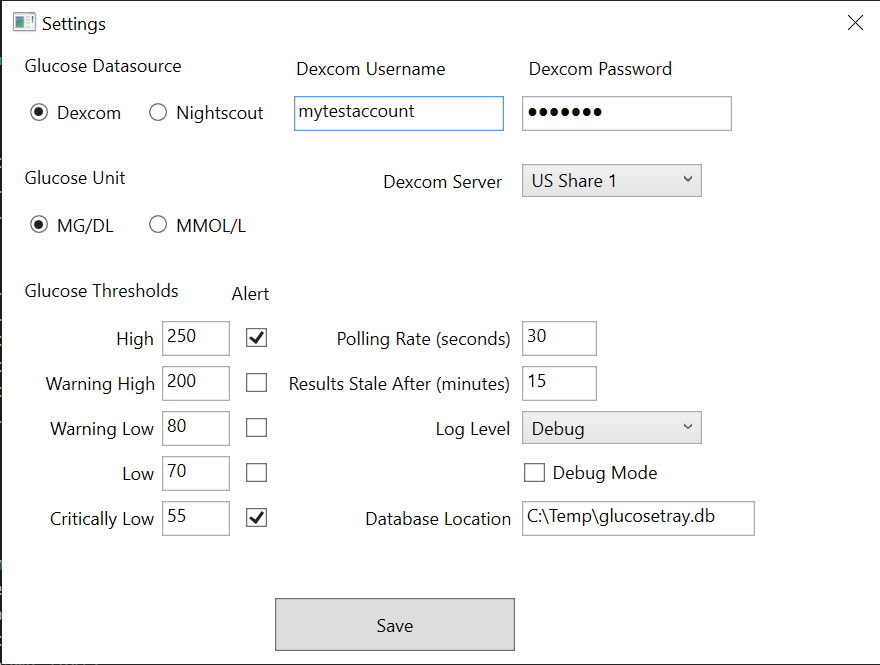
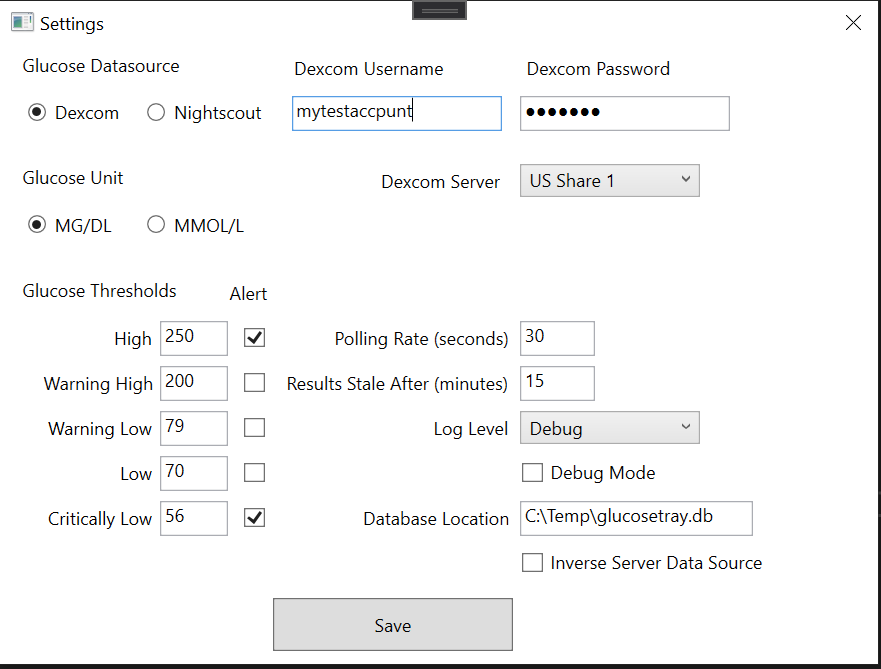
added a setting for toggling between different server source data types

diff --git a/GlucoseTrayCore/Views/SettingsWindow.xaml b/GlucoseTrayCore/Views/SettingsWindow.xaml
@@ -34,14 +34,19 @@
         <Label Content="Glucose Datasource" HorizontalAlignment="Left" Margin="10,0,0,0" VerticalAlignment="Top" Height="26" Width="131" Grid.ColumnSpan="2"/>
         <RadioButton TabIndex="1" x:Name="radio_source_dexcom" Content="Dexcom" HorizontalAlignment="Center" VerticalAlignment="Center" Grid.Row="1" GroupName="glucose_datasource" Height="15" Width="62" RenderTransformOrigin="0.5,0.5" IsChecked="True" Checked="ShowDexcomBlock"/>
         <RadioButton TabIndex="2" x:Name="radio_source_nightscout" Content="Nightscout" HorizontalAlignment="Left" VerticalAlignment="Center" Grid.Row="1" GroupName="glucose_datasource" Height="15" Width="78" Grid.Column="1" Checked="ShowNightscoutBlock" Grid.ColumnSpan="2"/>
-        <Label x:Name="label_dexcom_username" Content="Dexcom Username" Grid.Column="3" HorizontalAlignment="Left" VerticalAlignment="Center" Height="26" Width="124" Margin="4,0,0,0"/>
-        <Label x:Name="label_nightscoutUrl" Content="Nightscout Url" Grid.Column="2" HorizontalAlignment="Left" VerticalAlignment="Center" Height="26" Width="124" Visibility="Hidden" Grid.ColumnSpan="2" Margin="25,0,0,0"/>
-        <Label x:Name="label_dexcom_password" Content="Dexcom Password" Grid.Column="4" HorizontalAlignment="Left" VerticalAlignment="Center" Height="26" Width="130" Margin="4,0,0,0"/>
-        <Label x:Name="label_nightscout_token" Content="Access Token" Grid.Column="4" HorizontalAlignment="Left" VerticalAlignment="Center" Height="26" Width="130" Visibility="Hidden" Margin="4,0,0,0"/>
-        <TextBox TabIndex="3" x:Name="txt_dexcom_username" Grid.Column="3" Grid.Row="1" TextWrapping="Wrap" Width="140" Margin="0,4,0,3" HorizontalAlignment="Center" Text="{Binding DexcomUsername}"/>
-        <TextBox TabIndex="3" x:Name="txt_nightscoutUrl" Grid.Column="3" Grid.Row="1" TextWrapping="Wrap" Width="140" Margin="0,4,0,3" HorizontalAlignment="Center" Visibility="Hidden" Text="{Binding NightscoutUrl}"/>
-        <PasswordBox TabIndex="4" x:Name="txt_dexcom_password" Grid.Column="4" Grid.Row="1" Width="140" Margin="5,4,0,3" HorizontalAlignment="Left" />
-        <PasswordBox TabIndex="4" x:Name="txt_nightscout_token" Grid.Column="4" Grid.Row="1" Width="140" Margin="5,4,0,3" HorizontalAlignment="Left" Visibility="Hidden"/>
+
+        <Label x:Name="label_dexcom_username" Content="Dexcom Username" Grid.Column="3" HorizontalAlignment="Left" VerticalAlignment="Center" Height="26" Width="124" Margin="4,0,0,0" />
+        <Label x:Name="label_nightscoutUrl" Content="Nightscout Url" Grid.Column="3" HorizontalAlignment="Left" VerticalAlignment="Center" Height="26" Width="124" Visibility="Hidden" Margin="4,0,0,0"/>
+
+        <Label x:Name="label_dexcom_password" Content="Dexcom Password" Grid.Column="4" HorizontalAlignment="Left" VerticalAlignment="Center" Height="26" Width="130" Margin="4,0,0,0" />
+        <Label x:Name="label_nightscout_token" Content="Access Token" Grid.Column="4" HorizontalAlignment="Left" VerticalAlignment="Center" Height="26" Width="130" Visibility="Hidden" Margin="50,0,0,0" Grid.ColumnSpan="2"/>
+
+        <TextBox TabIndex="3" x:Name="txt_dexcom_username" Grid.Column="3" Grid.Row="1" TextWrapping="Wrap" Width="140" Margin="0,4,0,3" HorizontalAlignment="Center" Text="{Binding DexcomUsername}" />
+        <TextBox TabIndex="3" x:Name="txt_nightscoutUrl" Grid.Column="3" Grid.Row="1" TextWrapping="Wrap" Width="184" Margin="7,4,0,3" HorizontalAlignment="Left" Visibility="Hidden" Text="{Binding NightscoutUrl}" Grid.ColumnSpan="2"/>
+
+        <PasswordBox TabIndex="4" x:Name="txt_dexcom_password" Grid.Column="4" Grid.Row="1" Width="140" Margin="5,4,0,3" HorizontalAlignment="Left"  />
+        <PasswordBox TabIndex="4" x:Name="txt_nightscout_token" Grid.Column="4" Grid.Row="1" Width="190" Margin="50,4,5,3" HorizontalAlignment="Left" Visibility="Hidden" Grid.ColumnSpan="2"/>
+
         <Label Content="Glucose Unit" HorizontalAlignment="Left" Grid.Row="3" VerticalAlignment="Top" Height="26" Width="100" Margin="10,0,0,0" Grid.ColumnSpan="2"/>
         <Label x:Name="label_dexcom_server" Content="Dexcom Server" Grid.Column="3" HorizontalAlignment="Left" Grid.Row="3" VerticalAlignment="Center" Height="25" Width="95" Grid.ColumnSpan="2" Margin="62,0,0,0"/>
         <RadioButton TabIndex="6" x:Name="radio_unit_mg" Content="MG/DL" HorizontalAlignment="Center" Grid.Row="4" VerticalAlignment="Center" Height="15" Width="62" GroupName="glucose_unit" IsChecked="True" Checked="UpdateValuesFromMMoLToMG"/>
@@ -75,5 +80,6 @@
         <CheckBox TabIndex="17" x:Name="checkbox_alert_low" IsChecked="{Binding LowAlert}" Content="" Grid.Column="2" HorizontalAlignment="Center" Grid.Row="10" VerticalAlignment="Center"/>
         <ComboBox TabIndex="5" x:Name="combobox_dexcom_server" Grid.Column="4" HorizontalAlignment="Left" Grid.Row="3" VerticalAlignment="Center" Width="120" SelectedIndex="0" Margin="5,0,0,0" Height="22"/>
         <CheckBox TabIndex="16" x:Name="checkbox_alert_critical" IsChecked="{Binding CriticallyLowAlert}" Content="" Grid.Column="2" HorizontalAlignment="Center" Grid.Row="11" VerticalAlignment="Center"/>
+        <CheckBox x:Name="checkbox_server_datasource_inversed" Content="Inverse Server Data Source" Grid.Column="4" HorizontalAlignment="Left" Margin="5,0,0,0" Grid.Row="12" VerticalAlignment="Center" Grid.ColumnSpan="2" IsChecked="{Binding IsServerDataUnitTypeMmol}"/>
     </Grid>
 </Window>

diff --git a/GlucoseTrayCore/Services/GlucoseFetchService.cs b/GlucoseTrayCore/Services/GlucoseFetchService.cs
@@ -65,28 +65,22 @@ namespace GlucoseTrayCore.Services
             (_options.CurrentValue.GlucoseUnit == GlucoseUnitType.MMOL && result.MmolValue <= _options.CurrentValue.CriticalLowBg)
             || (_options.CurrentValue.GlucoseUnit == GlucoseUnitType.MG && result.MgValue <= _options.CurrentValue.CriticalLowBg);
 
-        private void CalculateValues(GlucoseResult result, double value, GlucoseUnitType? unitType = null)
+        private void CalculateValues(GlucoseResult result, double value)
         {
-            // TODO: Would be nice to find a definitive way to know what unit type the server is sending us data in.
             if (value == 0)
             {
                 result.MmolValue = value;
                 result.MgValue = Convert.ToInt32(value);
             }
-            else if (unitType != null)
-            {
-                result.MmolValue = unitType.Value == GlucoseUnitType.MG ? value / 18 : value;
-                result.MgValue = unitType.Value == GlucoseUnitType.MG ? Convert.ToInt32(value) : Convert.ToInt32(value * 18);
-            }
-            else if (value <= 30) // Almost guaranteed to be an MMOL reading. This block might be hit by users using a MMOL DexCom setup? Need confirmation
+            else if (_options.CurrentValue.IsServerDataUnitTypeMmol)
             {
                 result.MmolValue = value;
-                result.MgValue = Convert.ToInt32(value *= 18);
+                result.MgValue = Convert.ToInt32(value * 18);
             }
-            else // Anything else is a MG/DL reading
+            else
             {
+                result.MmolValue = value / 18;
                 result.MgValue = Convert.ToInt32(value);
-                result.MmolValue = value /= 18;
             }
             result.IsCriticalLow = IsCriticalLow(result);
         }
@@ -125,7 +119,7 @@ namespace GlucoseTrayCore.Services
                         DateTimeUTC = DateTime.Parse(record.dateString).ToUniversalTime(),
                         Trend = record.direction.GetTrend()
                     };
-                    CalculateValues(fetchResult, record.sgv, GlucoseUnitType.MG); // As of 12/24/2020, I have been informed Nightscout always sends readings back as MG/DL
+                    CalculateValues(fetchResult, record.sgv);
                     if (fetchResult.Trend == TrendResult.Unknown)
                         _logger.LogWarning($"Un-expected value for direction/Trend {record.direction}");
                     results.Add(fetchResult);

diff --git a/GlucoseTrayCore/GlucoseTraySettings.cs b/GlucoseTrayCore/GlucoseTraySettings.cs
@@ -154,6 +154,12 @@ namespace GlucoseTrayCore
             get => criticallyLowAlert; set { criticallyLowAlert = value; OnPropertyChanged(nameof(CriticallyLowAlert)); }
         }
 
+        private bool isServerDataUnitTypeMmol;
+        public bool IsServerDataUnitTypeMmol
+        {
+            get => isServerDataUnitTypeMmol; set { isServerDataUnitTypeMmol = value; OnPropertyChanged(nameof(IsServerDataUnitTypeMmol)); }
+        }
+
         public event PropertyChangedEventHandler PropertyChanged;
         protected void OnPropertyChanged(string name) => PropertyChanged?.Invoke(this, new PropertyChangedEventArgs(name));
     }

diff --git a/GlucoseTrayCore/Views/SettingsWindow.xaml.cs b/GlucoseTrayCore/Views/SettingsWindow.xaml.cs
@@ -28,6 +28,7 @@ namespace GlucoseTrayCore.Views.Settings
             DatabaseLocation = @"C:\Temp\glucosetray.db",
             DexcomUsername = "",
             NightscoutUrl = "",
+            IsServerDataUnitTypeMmol = false,
             // Appears we will need to manually bind radios, dropdowns, and password fields for now.
         };
 

diff --git a/README.md b/README.md
@@ -30,3 +30,5 @@ Out-of-date readings are shown with a strikethrough effect. <br>
 -Logs readings to a local database for you to do with as you please
 
 ![alt text](https://raw.githubusercontent.com/Delubear/GlucoseTray/master/2019-05-03_16-18-24.png)
+
+https://github.com/Delubear/GlucoseTray/wiki/Setup-Guide
